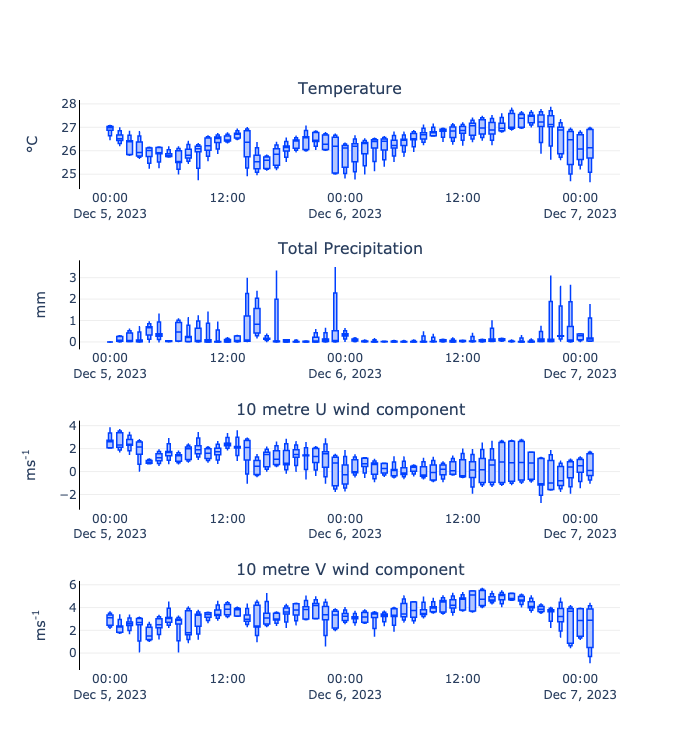
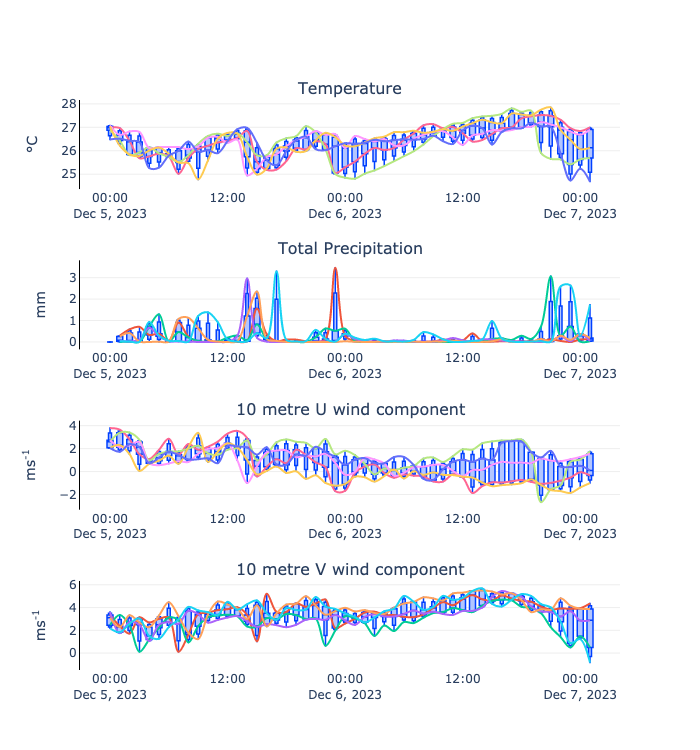
QA tweaks

diff --git a/earthkit/plots/charts.py b/earthkit/plots/charts.py
@@ -1,9 +1,7 @@
-from earthkit.plots import metadata
 from plotly.subplots import make_subplots
 
-from earthkit.plots import bar, box, inputs, line
+from earthkit.plots import bar, box, inputs, line, metadata
 from earthkit.plots.schemas import schema
-
 
 ADD_TRACE_KWARGS = [
     "row",
@@ -47,18 +45,16 @@ class Chart:
         self._subplot_titles = dict()
         self._subplot_y_titles = None
         self._layout_override = dict()
-        
+
         self._prepared = False
-    
+
     def add_traces(method):
         def wrapper(self, *args, units=None, order=None, **kwargs):
-                
-            trace_kwargs = {
-                k: kwargs.pop(k) for k in ADD_TRACE_KWARGS if k in kwargs
-            }
+
+            trace_kwargs = {k: kwargs.pop(k) for k in ADD_TRACE_KWARGS if k in kwargs}
             if "column" in trace_kwargs:
                 trace_kwargs["col"] = trace_kwargs.pop("column")
-            
+
             title = ""
             units_string = ""
             if args:
@@ -77,30 +73,36 @@ class Chart:
                     if self._fig is None:
                         self._rows = self._rows or len(traces)
                         self._columns = self._columns or 1
-                        self._subplot_y_titles = [" "]*(self._rows*self._columns)
+                        self._subplot_y_titles = [" "] * (self._rows * self._columns)
                     for sub_trace in trace:
                         if not isinstance(sub_trace, (list, tuple)):
-                            sub_trace = [sub_trace]    
+                            sub_trace = [sub_trace]
                         actual_trace_kwargs = {
-                            k: v for k, v in trace_kwargs.items()
+                            k: v
+                            for k, v in trace_kwargs.items()
                             if k not in ("row", "col")
                         }
-                        row = trace_kwargs.get("row", i+1)
+                        row = trace_kwargs.get("row", i + 1)
                         col = trace_kwargs.get("col", 1)
-                        j = self._columns*(row-1) + (col-1)
-                        
+                        j = self._columns * (row - 1) + (col - 1)
+
                         if isinstance(title, list):
-                            self._subplot_titles = {str(k): title[k] for k in range(len(title))}
+                            self._subplot_titles = {
+                                str(k): title[k] for k in range(len(title))
+                            }
                             self._subplot_y_titles = units_string
                         else:
                             self._subplot_titles[str(j)] = title
                             self._subplot_y_titles[j] = units_string
-                        
+
                         for actual_trace in sub_trace:
-                            self.add_trace(actual_trace, row=row, col=col, **actual_trace_kwargs)
+                            self.add_trace(
+                                actual_trace, row=row, col=col, **actual_trace_kwargs
+                            )
                 else:
                     self.add_trace(trace, **trace_kwargs)
             return self
+
         return wrapper
 
     @property
@@ -109,7 +111,7 @@ class Chart:
             self._fig = make_subplots(
                 rows=self.rows,
                 cols=self.columns,
-                subplot_titles=[f"{i}" for i in range(self._rows*self._columns)],
+                subplot_titles=[f"{i}" for i in range(self._rows * self._columns)],
                 **self._subplots_kwargs,
             )
         return self._fig
@@ -173,7 +175,9 @@ class Chart:
                     },
                 }
             )
-        self.fig.for_each_annotation(lambda a: a.update(text = self._subplot_titles[a.text]))
+        self.fig.for_each_annotation(
+            lambda a: a.update(text=self._subplot_titles[a.text])
+        )
         self._prepared = True
 
     def show(self):

diff --git a/earthkit/plots/metadata/__init__.py b/earthkit/plots/metadata/__init__.py
@@ -1,4 +1,3 @@
-
 from earthkit.plots.metadata import units
 
 __all__ = [

diff --git a/earthkit/plots/metadata/units.py b/earthkit/plots/metadata/units.py
@@ -1,4 +1,3 @@
-
 import re
 
 _NO_CF_UNITS = False